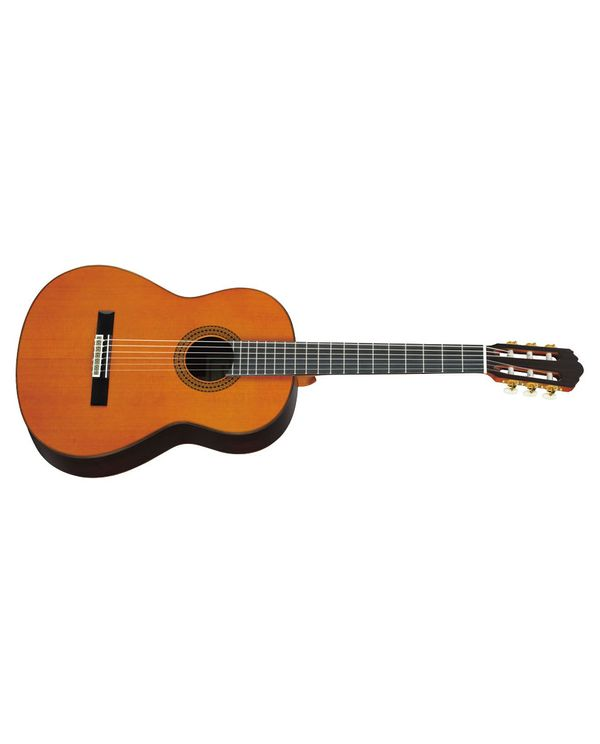
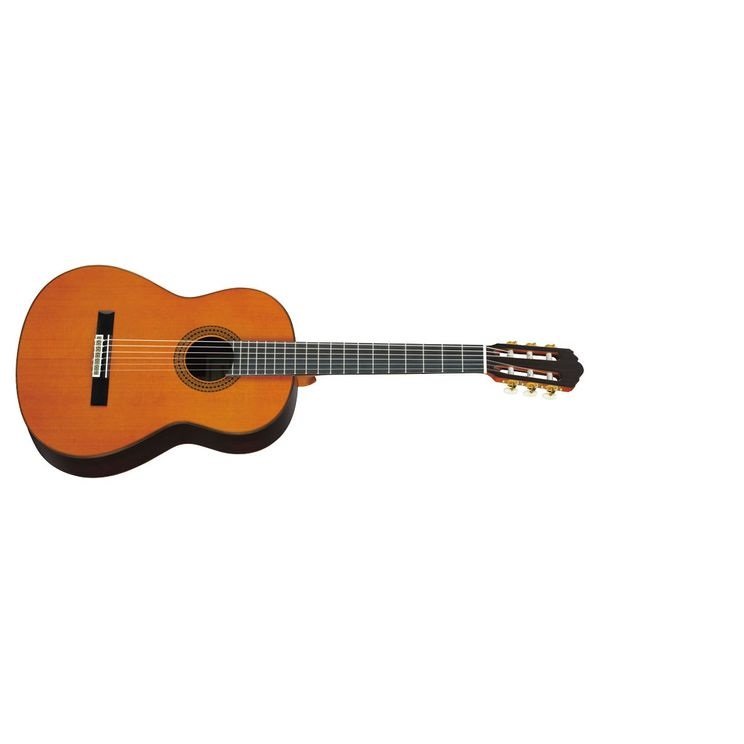
-mise à jour de la dimension des images -modification du css de présentation des produits product-list.scss

Changed region(s): [[0.0, 0.3401, 0.99, 0.6492]]

diff --git a/src/main/webapp/app/modules/ventes-en-ligne/product-list.tsx b/src/main/webapp/app/modules/ventes-en-ligne/product-list.tsx
@@ -45,17 +45,19 @@ const ProductList: React.FC = () => {
               {products && products.length > 0 ? (
                 <div className="product-container">
                   {products.map(product => (
-                    <div key={product.id}>
-                      <div className="product-card" onClick={() => showProductDetails(product)}>
+                    <div className="product-card" key={product.id}>
+                      <div onClick={() => showProductDetails(product)}>
                         <img src={product.linkToGenericPhotoFile} alt={product.title} />
-                        <p>{product.title}</p>
-                        &nbsp;&nbsp;&nbsp;
-                        <p>{product.description}</p>
-                        <div className="price-and-button">
+                        <div className="content">
+                          <p>{product.title}</p>
                           &nbsp;&nbsp;&nbsp;
-                          {product.price % 1 === 0
-                            ? product.price.toFixed(0).replace(/\d(?=(\d{3})+(?!\d))/g, '$& ') + ' €'
-                            : product.price.toFixed(2).replace(/\d(?=(\d{3})+\.)/g, '$& ') + ' €'}
+                          <p>{product.description}</p>
+                          <p className="price">
+                            &nbsp;&nbsp;&nbsp;
+                            {product.price % 1 === 0
+                              ? product.price.toFixed(0).replace(/\d(?=(\d{3})+(?!\d))/g, '$& ') + ' €'
+                              : product.price.toFixed(2).replace(/\d(?=(\d{3})+\.)/g, '$& ') + ' €'}
+                          </p>
                         </div>
                       </div>
                       <button className="cartbtn" onClick={() => addToCart(product)}>

diff --git a/src/main/webapp/app/modules/ventes-en-ligne/product-list.scss b/src/main/webapp/app/modules/ventes-en-ligne/product-list.scss
@@ -6,6 +6,7 @@
 
 .cartbtn {
   width: 100%;
+  padding-bottom: 0px;
 }
 
 .product-card {
@@ -13,9 +14,8 @@
   flex-direction: column;
   background-color: #f5f5f5; /* Couleur de fond gris clair */
   border: 1px solid #e0e0e0; /* Bordure légère */
-  padding: 4x;
+  padding: 4px; /* Correction de la propriété mal écrite */
   border-radius: 6.28px; /* Coins arrondis */
-
   cursor: pointer; /* Définir le curseur comme une main */
 
   /* Style pour la couleur de fond jaune */
@@ -28,21 +28,35 @@
     height: auto; /* La hauteur est ajustée proportionnellement */
   }
 
+  .content {
+    flex: 1; /* Permet au contenu de prendre l'espace disponible */
+    display: flex;
+    flex-direction: column;
+    justify-content: space-between; /* Répartit l'espace entre les éléments */
+    padding: 10px; /* Ajoute un espace autour du contenu */
+    margin-bottom: 0;
+  }
+
   p {
     margin: 0; /* Supprime la marge autour du texte */
   }
-  .price-and-button {
+
+  .price {
     font-weight: bold; /* Texte en gras */
     font-size: 13px; /* Taille de police personnalisée */
-    margin-top: auto; /* Aligne le bouton en bas de la carte */
   }
-  /* Définir une hauteur minimale et une largeur fixe pour les éléments .product-card */
-  min-height: 300px; /* Exemple de hauteur minimale */
-  min-width: 120px; /* Exemple de largeur fixe */
+
+  /* Définir une hauteur minimale pour les éléments .product-card */
+  height: 100%;
 }
 
 @media screen and (max-width: 768px) {
   .product-container {
     grid-template-columns: repeat(2, 1fr);
+  }
+
+  .product-card {
+    height: auto; /* Ajuster la hauteur automatiquement pour s'adapter au contenu */
+    padding-bottom: 0px;
   }
 }

diff --git a/src/main/webapp/app/modules/ventes-en-ligne/cart.scss b/src/main/webapp/app/modules/ventes-en-ligne/cart.scss
@@ -1,13 +1,24 @@
 .cart-modal-content {
+  position: relative; /* Ajoutez cette ligne pour que la position absolue fonctionne à l'intérieur de cet élément */
   background-color: #fff;
   padding: 20px;
   border-radius: 10px;
   box-shadow: 0 0 10px rgba(0, 0, 0, 0.2);
-  max-width: 800px; /* Ajustez la largeur du modal selon vos besoins */
+  max-width: 800px;
   width: 100%;
-  max-height: 80vh; /* Définissez une hauteur maximale pour permettre le défilement */
-  overflow-y: auto; /* Ajoutez la barre de défilement verticale si nécessaire */
+  max-height: 80vh;
+  overflow-y: auto;
   text-align: center;
+
+  .close-button {
+    position: absolute;
+    top: 10px; /* Ajustez la distance depuis le haut selon vos besoins */
+    right: 10px; /* Ajustez la distance depuis la droite selon vos besoins */
+    cursor: pointer;
+    font-size: 20px;
+    font-weight: bold;
+    color: #333;
+  }
 }
 
 .cart-item {
@@ -29,7 +40,7 @@
 }
 
 .cart-total {
-  font-size: 24px; /* Taille de police plus grande */
-  font-weight: bold; /* Texte en gras */
-  color: darkgreen; /* Couleur du texte en vert foncé */
+  font-size: 24px;
+  font-weight: bold;
+  color: darkgreen;
 }

diff --git a/src/main/webapp/app/modules/ventes-en-ligne/cart.tsx b/src/main/webapp/app/modules/ventes-en-ligne/cart.tsx
@@ -125,7 +125,9 @@ const Cart: React.FC<CartProps> = ({ cartItems, onClose, updateCartItems }) => {
             <h2>Mon Panier</h2>
             <button onClick={handleResetClick}>Réinitialiser le panier</button>
             <button onClick={() => handleBuying()}>Payer</button>
-            <div onClick={onClose}>X</div>
+            <div className="close-button" onClick={onClose}>
+              X
+            </div>
             <div className="cart-item-list-container">
               {cartItems.map(item => (
                 <div className="cart-item" key={item.id}>
